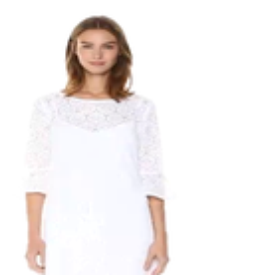
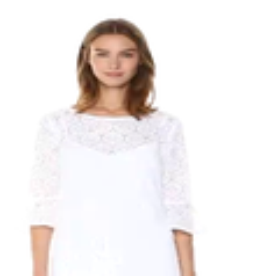
more debug. scale is 0.2

diff --git a/DataSet.py b/DataSet.py
@@ -209,7 +209,7 @@ class ReconstructDataSet(BaseDataSet):
             IUV = self.loader(os.path.join(folder, "densepose", name+".png"), mode="RGB")
 
 
-            i, j, h, w = self.get_params(image, scale=(0.2 , 1.0), ratio=(3. / 4., 4. / 3.))
+            i, j, h, w = self.get_params(image, scale=(0.2 , 0.2), ratio=(3. / 4., 4. / 3.))
             # i, j, h, w = self.get_params(image, scale=(0.8 , 1.0), ratio=(1.0, 1.0))
             # i,j,h,w = 0,0,256,256
             # print (i,j,h,w)
